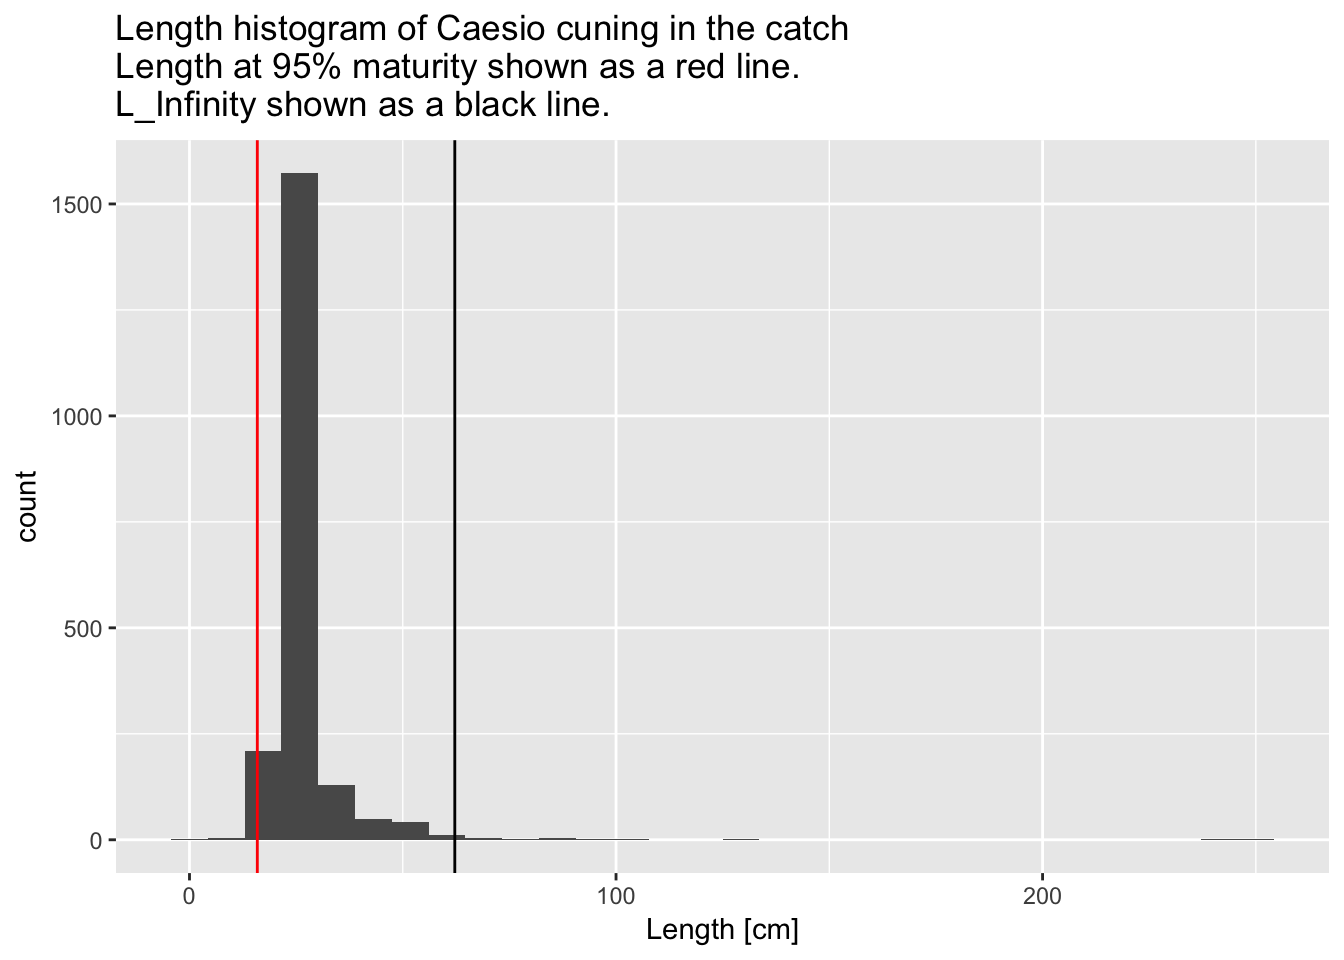
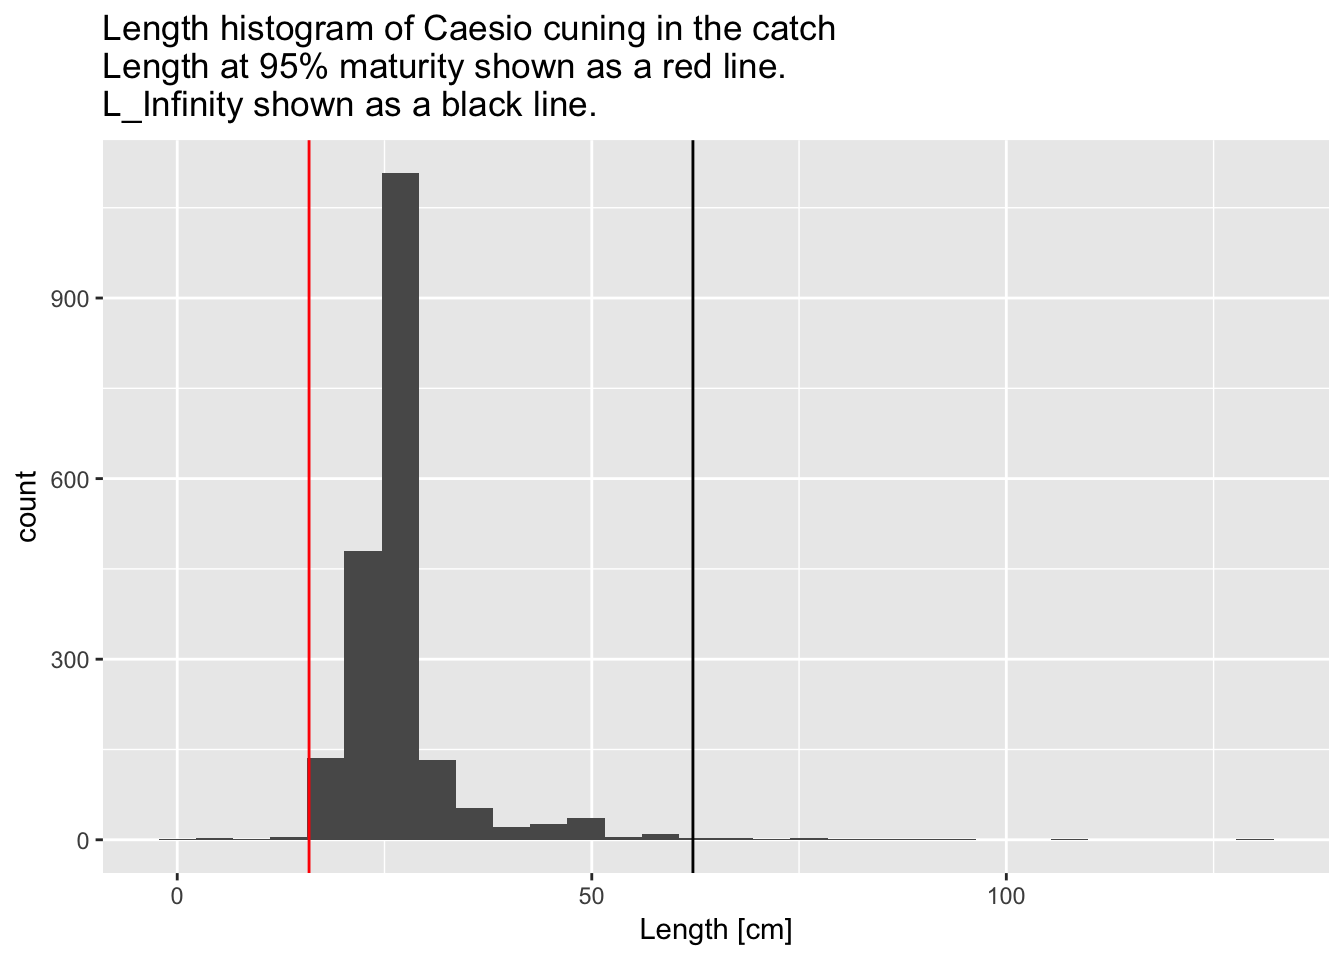
updates

diff --git a/docs/fisheries-visualizations.html b/docs/fisheries-visualizations.html
@@ -33,7 +33,7 @@
   <meta name="apple-mobile-web-app-status-bar-style" content="black">
   
   
-<link rel="prev" href="r-r-studio.html">
+<link rel="prev" href="installation.html">
 
 
 <script src="libs/jquery-2.2.3/jquery.min.js"></script>
@@ -104,16 +104,14 @@ code > span.in { color: #60a0b0; font-weight: bold; font-style: italic; } /* Inf
 <li><a href="./">A Guide to R for Fisheries Analysis</a></li>
 
 <li class="divider"></li>
-<li class="chapter" data-level="1" data-path="index.html"><a href="index.html"><i class="fa fa-check"></i><b>1</b> Prerequisites</a></li>
-<li class="chapter" data-level="2" data-path="r-r-studio.html"><a href="r-r-studio.html"><i class="fa fa-check"></i><b>2</b> R &amp; R Studio</a><ul>
-<li class="chapter" data-level="2.1" data-path="r-r-studio.html"><a href="r-r-studio.html#installation"><i class="fa fa-check"></i><b>2.1</b> Installation</a><ul>
-<li class="chapter" data-level="2.1.1" data-path="r-r-studio.html"><a href="r-r-studio.html#r"><i class="fa fa-check"></i><b>2.1.1</b> R</a></li>
-<li class="chapter" data-level="2.1.2" data-path="r-r-studio.html"><a href="r-r-studio.html#rstudio"><i class="fa fa-check"></i><b>2.1.2</b> RStudio</a></li>
+<li class="chapter" data-level="1" data-path="index.html"><a href="index.html"><i class="fa fa-check"></i><b>1</b> Overview</a></li>
+<li class="chapter" data-level="2" data-path="installation.html"><a href="installation.html"><i class="fa fa-check"></i><b>2</b> Installation</a><ul>
+<li class="chapter" data-level="2.1" data-path="installation.html"><a href="installation.html#r"><i class="fa fa-check"></i><b>2.1</b> R</a></li>
+<li class="chapter" data-level="2.2" data-path="installation.html"><a href="installation.html#rstudio"><i class="fa fa-check"></i><b>2.2</b> RStudio</a></li>
+<li class="chapter" data-level="2.3" data-path="installation.html"><a href="installation.html#getting-started-with-rstudio"><i class="fa fa-check"></i><b>2.3</b> Getting Started with RStudio</a><ul>
+<li class="chapter" data-level="2.3.1" data-path="installation.html"><a href="installation.html#packages"><i class="fa fa-check"></i><b>2.3.1</b> Packages</a></li>
 </ul></li>
-<li class="chapter" data-level="2.2" data-path="r-r-studio.html"><a href="r-r-studio.html#getting-started-with-rstudio"><i class="fa fa-check"></i><b>2.2</b> Getting Started with RStudio</a><ul>
-<li class="chapter" data-level="2.2.1" data-path="r-r-studio.html"><a href="r-r-studio.html#packages"><i class="fa fa-check"></i><b>2.2.1</b> Packages</a></li>
-<li class="chapter" data-level="2.2.2" data-path="r-r-studio.html"><a href="r-r-studio.html#helpful-resources"><i class="fa fa-check"></i><b>2.2.2</b> Helpful Resources</a></li>
-</ul></li>
+<li class="chapter" data-level="2.4" data-path="installation.html"><a href="installation.html#helpful-resources"><i class="fa fa-check"></i><b>2.4</b> Helpful Resources</a></li>
 </ul></li>
 <li class="chapter" data-level="3" data-path="fisheries-visualizations.html"><a href="fisheries-visualizations.html"><i class="fa fa-check"></i><b>3</b> Fisheries Visualizations</a><ul>
 <li class="chapter" data-level="3.1" data-path="fisheries-visualizations.html"><a href="fisheries-visualizations.html#load-libraries"><i class="fa fa-check"></i><b>3.1</b> Load libraries</a></li>
@@ -191,7 +189,7 @@ life_history_parameters &lt;-<span class="st"> </span><span class="kw">read_csv<
 <span class="st">  </span><span class="kw">geom_vline</span>(<span class="kw">aes</span>(<span class="dt">xintercept=</span>life_history_parameters$m95),<span class="dt">color=</span><span class="st">&quot;red&quot;</span>) +<span class="st"> </span>## Add a red vertical line for m95, the length at which 95% of fish are mature. Any fish below this length may be immature. Use the life_history_parameter data frame to get this value.
 <span class="st">  </span><span class="kw">xlab</span>(<span class="st">&quot;Length [cm]&quot;</span>) +<span class="st"> </span>## Change x-axis label
 <span class="st">  </span><span class="kw">ggtitle</span>(<span class="st">&quot;Length histogram of Caesio cuning in the catch</span><span class="ch">\n</span><span class="st">Length at 95% maturity shown as a red line.</span><span class="ch">\n</span><span class="st">L_Infinity shown as a black line.&quot;</span>) ## Add figure title</code></pre></div>
-<p><img src="bookdown-demo_files/figure-html/unnamed-chunk-13-1.png" width="672" /></p>
+<p><img src="bookdown-demo_files/figure-html/unnamed-chunk-12-1.png" width="672" /></p>
 <p>You’ll notice that a few of the fish are much older than a fish that is theoretically infinitely old! This does not necessarily mean it is impossible for fish to reach these lengths, but rather that the average fish reaches asymptotic age at this length. However, lengths longer than this should still be flagged as possible measurement errors. In fact, it appears that the two measurements greater than 200cm were indeed measurement errors, so let’s filter those out from the data.</p>
 <div class="sourceCode"><pre class="sourceCode r"><code class="sourceCode r">landings_data &lt;-<span class="st"> </span>landings_data %&gt;%
 <span class="st">  </span><span class="kw">filter</span>(Length_cm &lt;<span class="st"> </span><span class="dv">200</span>) ## Re-write landings data frame to only include measurements with lengths less than 200cm
@@ -204,7 +202,7 @@ landings_data %&gt;%<span class="st"> </span>## Start with the landings data fra
 <span class="st">  </span><span class="kw">geom_vline</span>(<span class="kw">aes</span>(<span class="dt">xintercept=</span>life_history_parameters$m95),<span class="dt">color=</span><span class="st">&quot;red&quot;</span>) +<span class="st"> </span>## Add a red line form95, the length at which 95% of fish are mature. Any fish below this length may be immature. Use the life_history_parameter data frame to get this value. +
 <span class="st">  </span><span class="kw">xlab</span>(<span class="st">&quot;Length [cm]&quot;</span>) +<span class="st"> </span>## Change x-axis label
 <span class="st">  </span><span class="kw">ggtitle</span>(<span class="st">&quot;Length histogram of Caesio cuning in the catch</span><span class="ch">\n</span><span class="st">Length at 95% maturity shown as a red line.</span><span class="ch">\n</span><span class="st">L_Infinity shown as a black line.&quot;</span>) ## Add figure title</code></pre></div>
-<p><img src="bookdown-demo_files/figure-html/unnamed-chunk-14-1.png" width="672" /></p>
+<p><img src="bookdown-demo_files/figure-html/unnamed-chunk-13-1.png" width="672" /></p>
 <p>Now things look more reasonable! Most fish in the catch also appear to be mature, which is a good sign for the sustainability of the fishery.</p>
 <p>You might also be interested in seeing how the size composition varies by gear type. It appears as if the size structure is about the same from each gear, although by far the most amount of fish are caught using speargun. Very few fish are caught using trolling.</p>
 <div class="sourceCode"><pre class="sourceCode r"><code class="sourceCode r">landings_data %&gt;%<span class="st"> </span>## Start with the landings data frame
@@ -217,7 +215,7 @@ landings_data %&gt;%<span class="st"> </span>## Start with the landings data fra
 <span class="st">  </span><span class="kw">xlab</span>(<span class="st">&quot;Length [cm]&quot;</span>) +<span class="st"> </span>## Change x-axis label
 <span class="st">  </span><span class="kw">ggtitle</span>(<span class="st">&quot;Length histogram of Caesio cuning in the catch by gear type</span><span class="ch">\n</span><span class="st">Length at 95% maturity shown as a red line.</span><span class="ch">\n</span><span class="st">L_Infinity shown as a black line.&quot;</span>) +<span class="st"> </span>## Add figure title
 <span class="st">  </span><span class="kw">facet_wrap</span>(~Gear) ## This tells the figure to plot by all different gear types</code></pre></div>
-<p><img src="bookdown-demo_files/figure-html/unnamed-chunk-15-1.png" width="672" /></p>
+<p><img src="bookdown-demo_files/figure-html/unnamed-chunk-14-1.png" width="672" /></p>
 <p>Next we can calculate the percentage of mature fish in the catch. Over 97% of the fish are mature throughout the time series, which is a great sign! This matches up with what we see in the histogram.</p>
 <div class="sourceCode"><pre class="sourceCode r"><code class="sourceCode r">landings_data %&gt;%<span class="st"> </span>## Start with the landings data frame
 <span class="st">  </span><span class="co">#filter(Year == 2014) %&gt;% ## Only look at length measurements from 2014</span>
@@ -247,7 +245,7 @@ landings_data %&gt;%<span class="st"> </span>## Start with the landings data fra
 <span class="st">  </span><span class="kw">geom_line</span>() +<span class="st"> </span>## Also add a line connecting the points
 <span class="st">  </span><span class="kw">ylab</span>(<span class="st">&quot;Daily Landings [kg/day]&quot;</span>) +<span class="st"> </span>## Change the y-axis title
 <span class="st">  </span><span class="kw">ggtitle</span>(<span class="st">&quot;Daily landings of Caesio cuning&quot;</span>) ## Add a figure title</code></pre></div>
-<p><img src="bookdown-demo_files/figure-html/unnamed-chunk-17-1.png" width="672" /></p>
+<p><img src="bookdown-demo_files/figure-html/unnamed-chunk-16-1.png" width="672" /></p>
 <p>It is a little diffcult to observe trends here since there is a lot of variation between days, other than that there was no data collected between 2006 and 2010. Instead, you may wish to aggregate the catch data by year in order to look at trends in annual landings. Because this particular survey only samples the catch on certain days, it does not represent the total volume of landed catch. Therefore, it’s important to normalize the sampled catch by the number of sampling days. This will mean that trends represent actual increases or decreases in catch, not just increases or decreases in how frequently the catch is sampled.</p>
 <p>Looking at this plot, it now becomes more clear that landings decrease significantly between 2004 and 2010, but have been increasing during the last few years. This could be indicative of a recovering fishery, or could mean increasing fishing pressure.</p>
 <div class="sourceCode"><pre class="sourceCode r"><code class="sourceCode r">landings_data %&gt;%<span class="st"> </span>## Start with the landings data frame
@@ -260,7 +258,7 @@ landings_data %&gt;%<span class="st"> </span>## Start with the landings data fra
 <span class="st">  </span><span class="kw">geom_line</span>() +<span class="st"> </span>## Also add a line connecting the points
 <span class="st">  </span><span class="kw">ylab</span>(<span class="st">&quot;Normalized annual Landings [kg/survey day/year]&quot;</span>) +<span class="st"> </span>## Change the y-axis title
 <span class="st">  </span><span class="kw">ggtitle</span>(<span class="st">&quot;Normalized annual landings of Caesio cuning&quot;</span>) ## Add figure title</code></pre></div>
-<p><img src="bookdown-demo_files/figure-html/unnamed-chunk-18-1.png" width="672" /></p>
+<p><img src="bookdown-demo_files/figure-html/unnamed-chunk-17-1.png" width="672" /></p>
 <p>Again, you may be interested in looking across different gear types. Doing so, it now becomes clear that the recent increase in catch seems to be concentrated in speargun and trap fishing. Meanwhile, catch from muroami, a very destructive type of gear where nets are driven into the reef, has dropped to 0 since a ban of that gear in 2012 - a good sign that mangement regulation is working.</p>
 <div class="sourceCode"><pre class="sourceCode r"><code class="sourceCode r">landings_data %&gt;%<span class="st"> </span>## Start with the landings data frame
 <span class="st">  </span><span class="kw">mutate</span>(<span class="dt">Date =</span> <span class="kw">mdy</span>(Date)) %&gt;%<span class="st"> </span>## Turn the date column into a date variable that R recognizes
@@ -273,7 +271,7 @@ landings_data %&gt;%<span class="st"> </span>## Start with the landings data fra
 <span class="st">  </span><span class="kw">ylab</span>(<span class="st">&quot;Normalized annual Landings [kg/survey day/year]&quot;</span>) +<span class="st"> </span>## Change the y-axis title
 <span class="st">  </span><span class="kw">ggtitle</span>(<span class="st">&quot;Normalized annual landings of Caesio cuning by gear type&quot;</span>)  +<span class="st"> </span>## Add figure title
 <span class="st">  </span><span class="kw">facet_wrap</span>(~Gear) ## This tells the figure to plot by all different gear types</code></pre></div>
-<p><img src="bookdown-demo_files/figure-html/unnamed-chunk-19-1.png" width="672" /></p>
+<p><img src="bookdown-demo_files/figure-html/unnamed-chunk-18-1.png" width="672" /></p>
 <p>Finally, you may also be interested in plotting median catch-per-unit-effort (CPUE). CPUE is calculated by dividing the catch of each fishing trip by the number of hours fished during that trip. The median is taken in order to remove outliers - some fishers are much more efficient than others.</p>
 <p>CPUE appears to have increased significantly during the last years. This may be due to increasing abundance in the water, which would be a good thing, but may also be indicative of increased gear efficiency coinciding with the transition to traps and spearguns, which may be concerning.</p>
 <div class="sourceCode"><pre class="sourceCode r"><code class="sourceCode r">landings_data %&gt;%<span class="st"> </span>## Start with the landings data frame
@@ -288,7 +286,7 @@ landings_data %&gt;%<span class="st"> </span>## Start with the landings data fra
 <span class="st">  </span><span class="kw">geom_line</span>() +<span class="st"> </span>## Also add a line connecting the points
 <span class="st">  </span><span class="kw">ylab</span>(<span class="st">&quot;Median CPUE [kg/hour]&quot;</span>) +<span class="st"> </span>## Change the y-axis title
 <span class="st">  </span><span class="kw">ggtitle</span>(<span class="st">&quot;Median CPUE for Caesio cuning&quot;</span>) ## Add figure title</code></pre></div>
-<p><img src="bookdown-demo_files/figure-html/unnamed-chunk-20-1.png" width="672" /></p>
+<p><img src="bookdown-demo_files/figure-html/unnamed-chunk-19-1.png" width="672" /></p>
 <p>When looking at all data together - almost all fish in the catch are mature, catch is increasing, and CPUE is increasing - all signs point to a fairly healthy fishery, which is likely recovering since the ban of muroami fishing nets.</p>
 
 </div>
@@ -298,7 +296,7 @@ landings_data %&gt;%<span class="st"> </span>## Start with the landings data fra
           </div>
         </div>
       </div>
-<a href="r-r-studio.html" class="navigation navigation-prev navigation-unique" aria-label="Previous page"><i class="fa fa-angle-left"></i></a>
+<a href="installation.html" class="navigation navigation-prev navigation-unique" aria-label="Previous page"><i class="fa fa-angle-left"></i></a>
 
 
 <script src="libs/gitbook-2.6.7/js/app.min.js"></script>
@@ -338,17 +336,6 @@ gitbook.start({
 });
 </script>
 
-<!-- dynamically load mathjax for compatibility with self-contained -->
-<script>
-  (function () {
-    var script = document.createElement("script");
-    script.type = "text/javascript";
-    script.src  = "https://cdn.mathjax.org/mathjax/latest/MathJax.js?config=TeX-AMS-MML_HTMLorMML";
-    if (location.protocol !== "file:" && /^https?:/.test(script.src))
-      script.src  = script.src.replace(/^https?:/, '');
-    document.getElementsByTagName("head")[0].appendChild(script);
-  })();
-</script>
 </body>
 
 </html>

diff --git a/docs/installation.html b/docs/installation.html
@@ -33,8 +33,8 @@
   <meta name="apple-mobile-web-app-status-bar-style" content="black">
   
   
-
-<link rel="next" href="installation.html">
+<link rel="prev" href="index.html">
+<link rel="next" href="fisheries-visualizations.html">
 
 <script src="libs/jquery-2.2.3/jquery.min.js"></script>
 <link href="libs/gitbook-2.6.7/css/style.css" rel="stylesheet" />
@@ -138,26 +138,65 @@ code > span.in { color: #60a0b0; font-weight: bold; font-style: italic; } /* Inf
           <div class="page-inner">
 
             <section class="normal" id="section-">
-<div id="header">
-<h1 class="title">A Guide to R for Fisheries Managers</h1>
-<h4 class="author"><em>Sustainable Fisheries Group</em></h4>
-<h4 class="date"><em>2017-05-05</em></h4>
+<div id="installation" class="section level1">
+<h1><span class="header-section-number">2</span> Installation</h1>
+<p>Though R/RStudio may seem intimidating, it is actually quite straight forward to set up and, after learning a few basics, you can start running analyses and writing your own in no time. <strong>The objective of this guide is to provide an introduction to R/RStudio basics so that interested resource managers without programming experience can start leveraging R for their management decisions.</strong></p>
+<p>R and RStudio are <strong>separate</strong> programs and that need to be installed and updated individually. If you do not keep both relatively up-to-date you will likely run into problems.</p>
+<div id="r" class="section level2">
+<h2><span class="header-section-number">2.1</span> R</h2>
+<p>To install R, go to the <a href="https://cran.r-project.org/mirrors.html">list of CRAN mirrors</a> (universities and other organizations where you can download R from) and click on a link for a location near you. A few options are listed below.</p>
+<ul>
+<li><a href="https://repo.bppt.go.id/cran/">Indonesia</a></li>
+<li><a href="https://cran.stat.upd.edu.ph">Philippines</a></li>
+<li><a href="https://cran.fiocruz.br">Brazil</a></li>
+<li><a href="https://cran.cnr.berkeley.edu">US (West Coast)</a></li>
+<li><a href="http://lib.stat.cmu.edu/R/CRAN/">US (East Coast)</a></li>
+</ul>
+<p>After navigating to the CRAN mirror site, click the download button for your operating system of choice (Linux, Max OS X, Windows) and then click on the most recent <code>.pkg</code> file and follow the instructions to complete the installation process.</p>
+<p><img src="images/r_download.png" width="805" /></p>
 </div>
-<div id="overview" class="section level1">
-<h1><span class="header-section-number">1</span> Overview</h1>
-<p><a href="https://cran.r-project.org">R</a> is a free programming language/software environment that allows users to analyze, model, and vizualize large data sets in much more powerful and complex ways than traditional spreadsheet programs like Excel or Google Sheets. Best of all, R is open source, meaning that it is freely available from the Comprehensive R Archive Network (CRAN) and anyone can contribute to making R better. In fact, numerous R packages (more on these later) are specifically designed for conducting analyses related to fisheries management. <a href="https://www.rstudio.com">RStudio</a> is the powerful graphical interface that allows users to manage their code, data, and files all in one convenient program.</p>
-<div class="sourceCode"><pre class="sourceCode r"><code class="sourceCode r"><span class="kw">library</span>(tidyverse)
-<span class="kw">library</span>(lubridate) 
-<span class="kw">library</span>(knitr)</code></pre></div>
+<div id="rstudio" class="section level2">
+<h2><span class="header-section-number">2.2</span> RStudio</h2>
+<p>After installing R, visit the <a href="https://www.rstudio.com/products/rstudio/#Desktop">RStudio Products</a> site and click the <strong>DOWNLOAD RSTUDIO DESKTOP</strong> button located partway down the page.</p>
+<p><img src="images/rstudio_download.png" width="251" /></p>
+<p>Next, scroll to the bottom and click on the link under <strong>Installers</strong> that again corresponds to your operating system of choice.</p>
+<p><img src="images/rstudio_installers.png" width="878" /></p>
+<p>Save the <code>.dmg</code> file on your desktop, open the file after it finishes downloading, and follow the instructions to complete the installation process. You can then delete the <code>.dmg</code> file.</p>
+<p>Congratulations! You successfully completed the installation process and are one step closer to using R and RStudio for analysis!</p>
+</div>
+<div id="getting-started-with-rstudio" class="section level2">
+<h2><span class="header-section-number">2.3</span> Getting Started with RStudio</h2>
+<div id="packages" class="section level3">
+<h3><span class="header-section-number">2.3.1</span> Packages</h3>
+<p>Packages are groups of functions that are designed to excel at certain tasks (making plots, standardizing dates, reading/writing large data files, etc.). Many useful packages come standard with R when you download it, however, many more are available online.</p>
+<p>To install a new package, click on the “Install” button located under the “Packages” tab in RStudio. This will open a pop-up where you can search for and install R packages hosted on CRAN. Alternatively, if you know the name of the package you want to install, you can run <code>install.packages('package_name')</code>.</p>
+<p><img src="images/package_install.png" width="1061" /></p>
+<p>Once installed, the packages you need for an analysis are loaded by the <code>library('package_name')</code> function.</p>
+<p>The following packages are commonly used by UCSB for fisheries analyses:</p>
+<ul>
+<li><strong>tidyverse</strong> - The tidyverse package actually contains numerous seperate packages for loading and writing data files (<strong>readr</strong>), data processing (<strong>dplyr</strong> &amp; <strong>tidyr</strong>), plotting (<strong>ggplot2</strong>), and functional programming (<strong>purrr</strong>)</li>
+<li><strong>readxl</strong> - read and write data from/to Excel workbooks, including workbooks with multiple worksheets</li>
+<li><strong>sf</strong>, <strong>rgeos</strong>, <strong>rgdal</strong> - Key packages for spatial analyses similar to those done with ArcGIS</li>
+<li><strong>rmarkdown</strong> - Use R code to author reproducible reports, presentations, and websites</li>
+<li><strong>shiny</strong> - Create web applications using R</li>
+</ul>
+</div>
+</div>
+<div id="helpful-resources" class="section level2">
+<h2><span class="header-section-number">2.4</span> Helpful Resources</h2>
+<ul>
+<li><a href="http://stat545.com/block000_r-rstudio-install.html">Installing R and RStudio</a> by Jenny Bryan</li>
+</ul>
 
+</div>
 </div>
             </section>
 
           </div>
         </div>
       </div>
-
-<a href="installation.html" class="navigation navigation-next navigation-unique" aria-label="Next page""><i class="fa fa-angle-right"></i></a>
+<a href="index.html" class="navigation navigation-prev " aria-label="Previous page"><i class="fa fa-angle-left"></i></a>
+<a href="fisheries-visualizations.html" class="navigation navigation-next " aria-label="Next page""><i class="fa fa-angle-right"></i></a>
 
 <script src="libs/gitbook-2.6.7/js/app.min.js"></script>
 <script src="libs/gitbook-2.6.7/js/lunr.js"></script>
@@ -185,7 +224,7 @@ gitbook.start({
 "size": 2
 },
 "edit": {
-"link": "https://github.com/rstudio/bookdown-demo/edit/master/index.Rmd",
+"link": "https://github.com/rstudio/bookdown-demo/edit/master/01-r_for_fisheries.Rmd",
 "text": "Edit"
 },
 "download": null,
